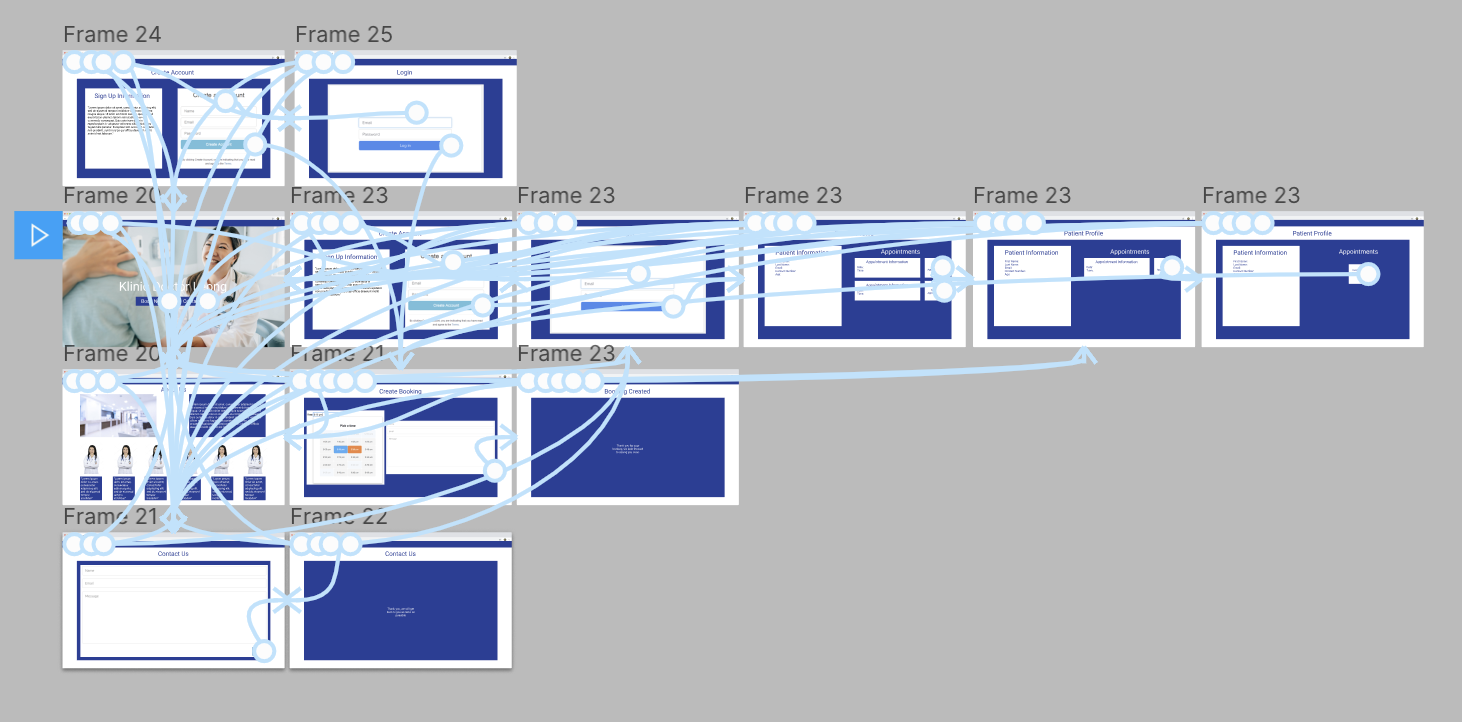
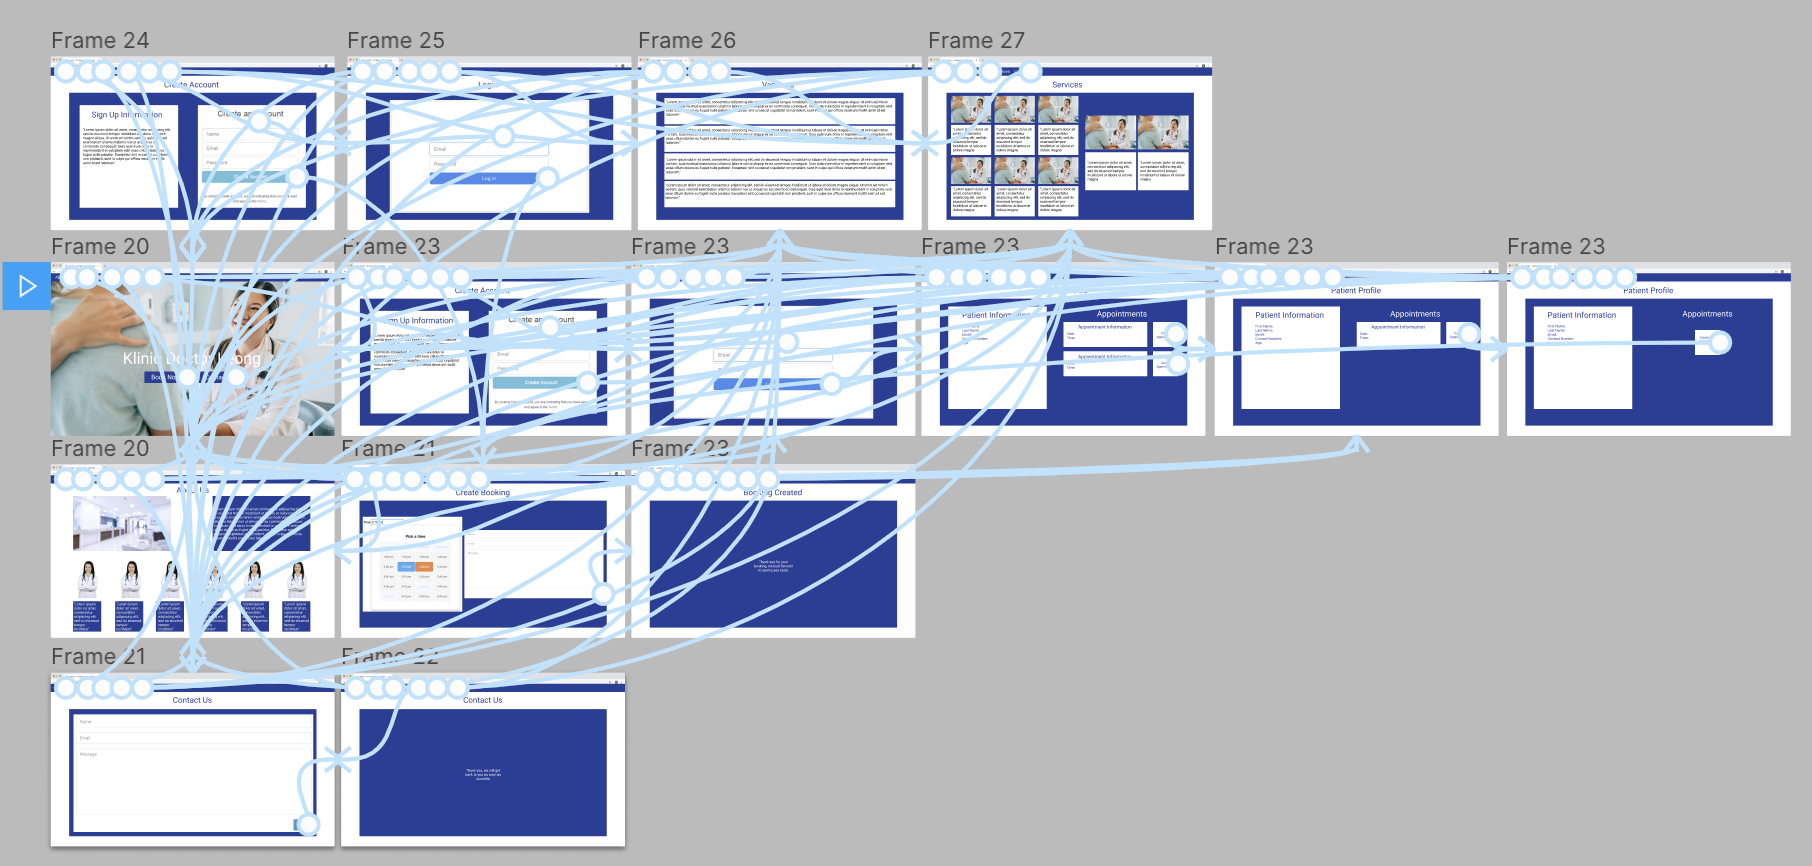
readme updated with new wireframes + new prototype paths

diff --git a/cypress/integration/nav_spec.js b/cypress/integration/nav_spec.js
@@ -1,5 +1,5 @@
-describe("My First Test", function() {
-  it("Visits the Homepage", function() {
+describe("Nav Functionality Testing", function() {
+  it("Clicks all links", function() {
     cy.visit("localhost:3000");
 
     cy.contains("Home").click();

diff --git a/README.md b/README.md
@@ -105,6 +105,16 @@ Hosting:
 
 ![](./Docs/wireframes/Contact-Mock.png)
 
+## New Pages Added After Speaking With Client
+
+#### Services Page
+
+![](./Docs/wireframes/Servicespage.png)
+
+#### Vaccines Page
+
+![](./Docs/wireframes/Vaccinespage.png)
+
 # Sitemap
 
 ![Sitemap](./Docs/sitemap.png)
@@ -119,12 +129,12 @@ Hosting:
 
 ![](./Docs/trello_screenshots/3.png)
 
-![](./Docs/trello_screenshots/4.png)  
+![](./Docs/trello_screenshots/4.png)
 
-![](./Docs/trello_screenshots/5.png)  
+![](./Docs/trello_screenshots/5.png)
 
 ### GANTT Chart for timeline planning
 
-![Gantt Chart](./Docs/gantt_screenshots.png)  
+![Gantt Chart](./Docs/gantt_screenshots.png)
 
 [GANTT Chart - Excel Document](./Docs/Gantt_Chart.xlsx)
